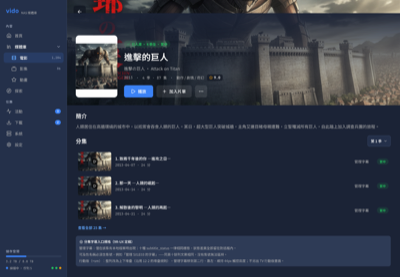
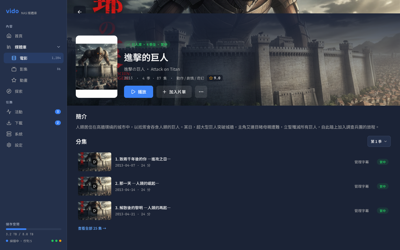
fix(9R-UX): Sally gate MUST-FIX —— 規格註記移入 J3-D、B4p-D 高度復原 900
Sally MCP review（2026-08-20）的唯一 MUST-FIX。

問題：上一輪塞進 sec-eps 的規格註記把 B4p-D 從 900 撐到 1000。
但這個檔案裡每一個桌面畫面都是 900 —— 包含它自己的四個同族兄弟
（B3p-D／B6p-D／B7p-D／B8p-D）。高度是視窗尺寸的約定，不是可個別
調整的畫布；比它高的那些（首頁 1714、下載 1560、活動 1360）都是
刻意設計成整頁捲動的例外。

而且註記的內容本來就該住在同一輪剛建的獨立規格頁 J3-D —— 專案規矩
是設計決策說明獨立成頁，不塞進 mockup（feedback_pencil_spec_standalone_screen）。
根因是提示詞（Sally）要錯了，不是執行端的問題。

修正：
- J3-D 裁定框補 ruling-line-4（a11y 名稱須含集號）與 ruling-line-5
  （行動版堆疊行為）；原註記第一行已由 ruling-line-1/-3 與十列表格涵蓋
- 刪除 sec-eps 內的 note-subtitle-entry
- B4p-D 高度 1000 → 900

驗證（Pencil MCP）：B4p-D 裁切檢查 0 problems、最深內容剛好 900、
B 系列五個畫面高度全部 900、對話框 y=36 維持上一輪已接受的置中。

截圖：只重產真的變了的兩張（b4p-d 400x277→400x250 對應 1000→900、
j3-d 400x282→400x303 對應新增兩行），其餘 153 張重繪雜訊已還原。

同時納入：
- 兩份 Inline Agent 提示詞（設計產出軌跡）
- sprint-status lane ③ backlog-episodelist-status-pill-vs-icon-drift ——
  review 時發現畫布的分集列狀態畫的是「繁中」文字藥丸，但出貨的
  EpisodeList.tsx 渲染的是 J2-D 圖示語彙的純圖示，兩者從 12-2 起分頭
  演進未曾對齊。非本輪範圍（提示詞明文保護 st 節點），已雙向立案。

Claude-Session: https://claude.ai/code/session_01Dktx7gZrCHGGPohBFpvYrc

diff --git a/_bmad-output/implementation-artifacts/9R-UX-episode-row-cta-design-prompt.md b/_bmad-output/implementation-artifacts/9R-UX-episode-row-cta-design-prompt.md
@@ -1,0 +1,132 @@
+# 9R-UX 分集列字幕入口 —— Pencil Inline Agent 提示詞
+
+> **給 Alexyu**：以下 `---` 之間整段複製進 Pencil 的 Inline AI Agent。
+> 跑完後回來跟我說一聲，我用 MCP 逐條 review（story AC #1–#5）。
+>
+> 節點 id、幾何、文案都是我 MCP 勘查過的實況，agent 不需要自行探索也**不應**改寫。
+
+---
+
+你正在編輯 `ux-design.pen`。這一輪要為「影集分集列」補上逐集字幕入口，並同步兩處過期文案。
+**四個任務，全部照做，不要自由發揮。**
+
+## 絕對不要碰
+
+- `t4tTRq` / `v5pjv` / `YdwGD` 三列裡的 `th`（縮圖）、`inf`（標題＋日期）、`st`（`繁中` 狀態藥丸）——
+  一個像素都不要動。狀態藥丸與程式碼目前的圖示版本不一致，那是既有議題，**不在這一輪**。
+- `ZpQaw`（J2-D 徽章規格頁）整頁不動。
+- `r1EY9` 裡除了我下面明講的節點以外，全部不動——尤其 `NS2ae`（生成 CTA 按鈕本體）、
+  `kZKPP`（`搜尋線上字幕（成功率低）`）、`tKGGf`（`轉為繁中（簡轉繁）`）。
+- 不新增任何 design token、不新增任何 reusable component、不改任何既有元件。
+
+## 這一輪的設計裁定（已定案，照做即可）
+
+**分集列的動作是「開啟管理字幕對話框」，不是「直接生成」，而且十種字幕狀態一律相同、不做分歧。**
+
+理由：J2-D 已經裁定「字形＝是否定局、顏色＝急迫度」，狀態資訊由同列的狀態指示器承載。
+若動作也隨狀態改變，等於把同一件事編碼兩次，而且 25 集的清單會因為狀態不同而讓按鈕忽隱忽現。
+狀態差異一律留在對話框內處理（F1 已核定「CTA 永遠可按、助語依狀態切換」的模式）。
+
+---
+
+## 任務 A —— `N2fmG6` 分集列加入逐集動作
+
+對 `t4tTRq`、`v5pjv`、`YdwGD` **三列各做一次**：
+
+在該列的 `inf` 與 `st` **之間**插入一個新的子節點（`ep` 是 horizontal flex、gap 14、
+`inf` 是 `fill_container`，所以插入後會自動重排，**不要手算座標**）。
+
+節點資料完全比照 `RequestRow` 已核定的純文字按鈕 `yTntT`（零新元件、零新 token）：
+
+```json
+{
+  "type": "frame",
+  "name": "btn-subtitle",
+  "height": 44,
+  "cornerRadius": "$radius-md",
+  "padding": [0, 14],
+  "justifyContent": "center",
+  "alignItems": "center",
+  "children": [
+    {
+      "type": "text",
+      "name": "subtitle-label",
+      "fill": "$text-secondary",
+      "content": "管理字幕",
+      "fontFamily": "Noto Sans TC",
+      "fontSize": 13,
+      "fontWeight": "normal"
+    }
+  ]
+}
+```
+
+插入順序務必是 `th` → `inf` → **`btn-subtitle`** → `st`。
+
+## 任務 B —— `N2fmG6` 補一則行為註記
+
+在 `VNeL9`（`sec-eps`）的**最後**插入一個註記區塊，寬 `fill_container`、
+`fill` 用 `$bg-tertiary`、`cornerRadius` 8、`padding` 12、vertical layout、gap 6。
+內含四行文字（`Noto Sans TC`，第一行 12px `$text-primary` `600`，其餘 12px `$text-secondary` normal）：
+
+1. `⚙ 分集字幕入口規格（9R-UX 定稿）`
+2. `管理字幕：僅在該集有本地檔案時出現；十種 subtitle_status 一律相同樣態，狀態差異全部留在對話框內。`
+3. `可及性名稱必須含集號，例如「管理 S01E03 的字幕」——同頁十餘列文案相同，沒有集號無法區辨。`
+4. `行動版（<sm）：整列改為上下堆疊（沿用 12-2 的堆疊規則），管理字幕移到第二行、靠左、維持 44px 觸控高度；不另出 TV 行動版畫面。`
+
+## 任務 C —— `r1EY9` 對話框：兩處文案
+
+**C-1** 在既有條件文案規格區塊的 `W3o1f9`（`手機版（F1-M-v2）行為相同，不另出圖`）**之前**，
+補兩行同款式的規格行（比照 `q8kia8`／`k4bp6` 的字級與顏色）：
+
+- `助語・untranslated（已有英文 SRT）：僅需翻譯，不再重跑語音辨識——這次很快也很便宜`
+- `助語・生成進行中：本集正在生成字幕——開啟即接續顯示進度，不會重複啟動`
+
+**C-2** 在同一個規格區塊最後補一行，記錄影集層級的文案裁定：
+
+- `影集層級（非單集）：CTA 維持不可按，助語改為「請於下方分集清單逐集生成」——原文案「影集字幕生成即將推出」已過期`
+
+## 任務 D —— 新增一張獨立規格畫面
+
+**不要**把這張塞進任何既有 mockup（設計決策說明一律獨立成頁）。
+
+在畫布空白處新增一個 frame，名稱 `J3-D`，寬 1000、`fill` `$bg-secondary`、`cornerRadius` 12、
+`padding` 32、vertical layout、gap 16。內容：
+
+- 標題（18px `$text-primary` `600`）：`J3 · 分集列字幕入口規格 — Episode Row Subtitle Entry`
+- 副標（13px `$text-secondary`）：`9R-UX 定稿。消費者：9R-10c（前端實作依此頁，不得自行發明）。`
+- 裁定框（`$bg-tertiary`、`cornerRadius` 8、`padding` 16、vertical、gap 8）：
+  - 14px `$text-primary` `600`：`裁定：動作與狀態解耦`
+  - 13px `$text-secondary`：`分集列的動作是「開啟管理字幕對話框」，不是直接生成。十種 subtitle_status 一律呈現相同動作，不做任何分歧。`
+  - 13px `$text-secondary`：`理由：J2-D 已定「字形＝是否定局、顏色＝急迫度」，狀態由同列指示器承載。動作再隨狀態改變＝同一事實編碼兩次，且 25 集清單會出現按鈕忽隱忽現的雜訊。`
+  - 13px `$text-secondary`：`唯一的閘門是 has_local_file：沒有本地檔案的集不出現任何動作（TMDb 有、NAS 沒有的集不可誤導使用者）。`
+- 一張表（表頭 12px `$text-secondary` `600`；內容 12px `$text-primary`／`$text-secondary`），
+  欄位：`subtitle_status` ｜ `列上出現動作？` ｜ `對話框開啟後的樣態`。十列：
+
+  | found | 是 | 完成態；重新生成會覆蓋既有繁中字幕 |
+  | not_found | 是 | 缺字幕態，可生成 |
+  | not_searched | 是 | 缺字幕態，可生成 |
+  | searching | 是 | 進度態（線上搜尋中） |
+  | probing | 是 | 進度態（偵測字幕軌中） |
+  | extracting | 是 | 進度態（抽取內嵌字幕中） |
+  | translating | 是 | 進度態（翻譯字幕中） |
+  | no_text_source | 是 | 缺字幕態；僅語音辨識可解 |
+  | skipped | 是 | 缺字幕態；軌道語言不符已略過 |
+  | untranslated | 是 | 缺字幕態＋助語「僅需翻譯，不再重跑語音辨識」 |
+
+- 收尾註記（12px `$text-secondary`）：
+  `「一律出現」不是偷懶——是刻意讓入口穩定：使用者不必先讀懂狀態才知道能不能點。可行性判斷在對話框內做，那裡有空間解釋。`
+
+## 完成後
+
+確認所有新增文字沒有與既有內容重疊（標籤與標題不得相互覆蓋），然後**存檔**。
+
+---
+
+## 給 Sally 的 review 清單（Alexyu 不用看）
+
+- AC #1：三列都有 `btn-subtitle`、順序在 `inf` 與 `st` 之間、44px、零新 token
+- AC #2：`J3-D` 十列表格齊全且與裁定一致
+- AC #3：C-1 兩行 + C-2 一行；`Aodey`／`tO72N` 未被更動（標題規則已存在，不重畫）
+- AC #4：任務 B 第 4 行涵蓋行動版
+- AC #5：獨立規格頁、無重疊、已存檔

diff --git a/_bmad-output/implementation-artifacts/9R-UX-episode-row-cta-fix-prompt.md b/_bmad-output/implementation-artifacts/9R-UX-episode-row-cta-fix-prompt.md
@@ -1,0 +1,39 @@
+# 9R-UX MUST-FIX —— 第二輪 Inline Agent 提示詞（很短）
+
+> 只有一件事要改。複製 `---` 之間那段。
+
+---
+
+你正在編輯 `ux-design.pen`。上一輪的產出有一個必須修正的地方。
+
+## 背景
+
+上一輪在 `VNeL9`（`sec-eps`）裡加了一個規格註記 `p7kBBH`（`note-subtitle-entry`），
+它把 `N2fmG6`（B4p-D）的高度從 900 撐到 1000。
+
+但這個檔案裡**每一個桌面畫面都是 900**——包括 B4p-D 的四個同族兄弟
+（`uRGu2` B3p-D、`Z42zy` B6p-D、`Tqy3E` B7p-D、`UH0sk` B8p-D）。
+高度是「視窗尺寸」的約定，不是可以個別調整的畫布。而且那三行規格內容，
+本來就該住在剛建好的獨立規格頁 `Z54xAd`（J3-D）裡。
+
+## 要做的事（三步，照順序）
+
+**步驟 1** —— 在 `Z54xAd`（J3-D）的裁定框 `ruling-line-3`（`M4IGxE`）之後，
+補兩行同款式的裁定行（13px、`$text-secondary`、`Noto Sans TC`）：
+
+- `可及性名稱必須含集號，例如「管理 S01E03 的字幕」——同頁十餘列文案相同，沒有集號無法區辨。`
+- `行動版（<sm）：整列改為上下堆疊（沿用 12-2 的堆疊規則），管理字幕移到第二行、靠左、維持 44px 觸控高度；不另出 TV 行動版畫面。`
+
+（原註記的第一行不必搬——`ruling-line-1`、`ruling-line-3` 與十列表格已經完整涵蓋。）
+
+**步驟 2** —— 刪除 `p7kBBH`（連同其四個子節點）。
+
+**步驟 3** —— 把 `N2fmG6` 的 `height` 改回 `900`。
+
+## 完成後
+
+確認 `N2fmG6` 沒有任何內容被裁切（刪掉註記後應該剛好容得下），然後**存檔**。
+
+匯出只需重產兩張：`b4p-d`、`j3-d`。`f1-d-v2` 這一輪沒動，**不要**動它的截圖。
+
+---
